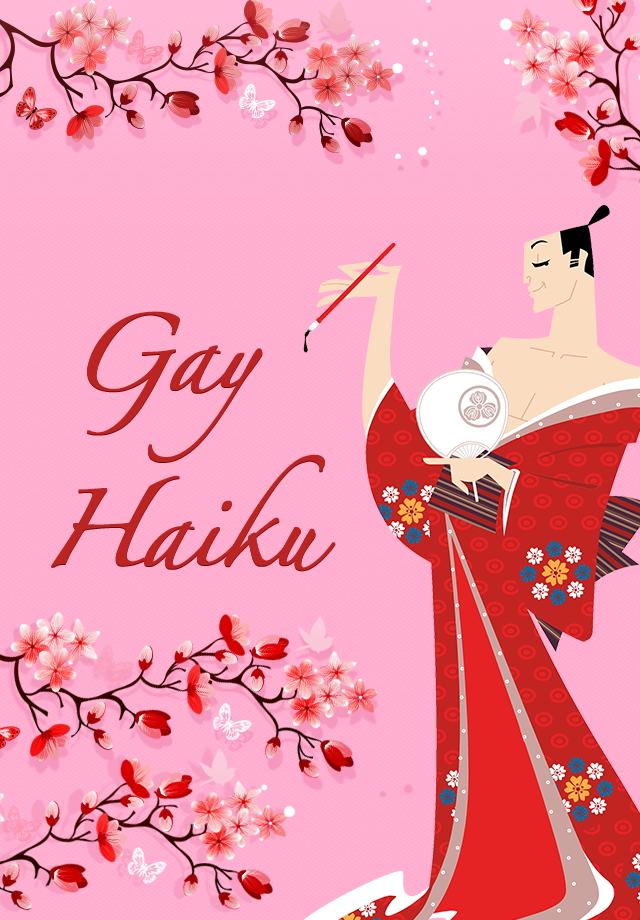
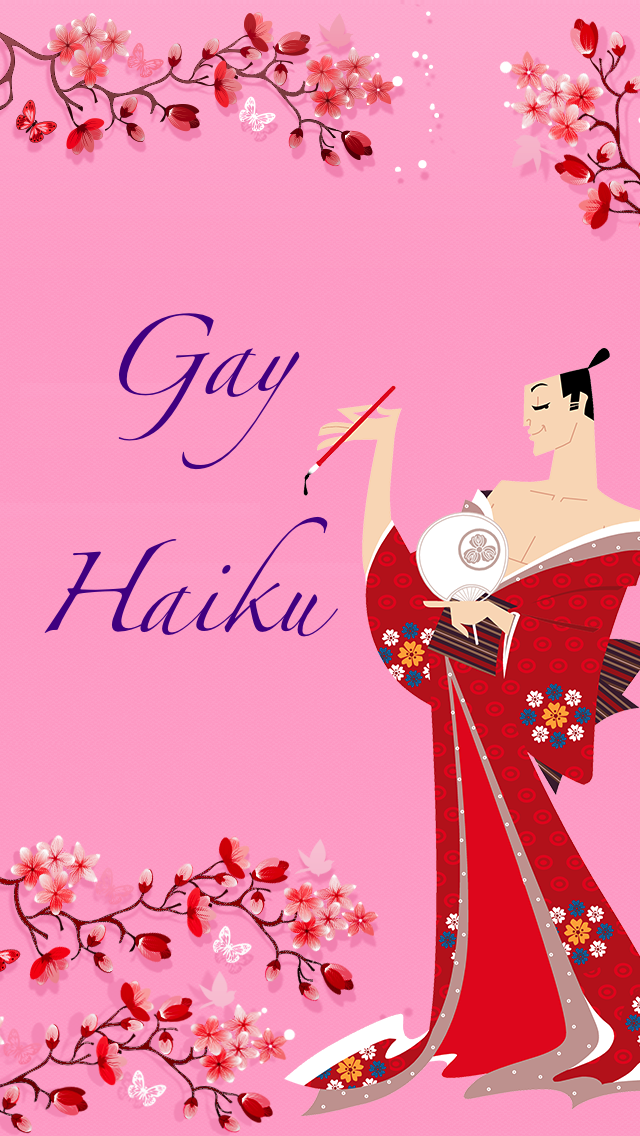
Got rid of iPad stuff for now.  Added most of final graphics.  Ready for beta testing!

diff --git a/GayHaikuTabbed/GHHaikuViewController.m b/GayHaikuTabbed/GHHaikuViewController.m
@@ -34,6 +34,7 @@
     [super viewDidLoad];
     self.view.backgroundColor = [UIColor whiteColor];
     background.backgroundColor = [UIColor whiteColor];
+    self.view.autoresizesSubviews=YES;
     [self.view addSubview:background];
     NSLog(@"View loaded.");
    [self setWidthAndHeight];
@@ -45,10 +46,10 @@
     background = [[UIImageView alloc] initWithFrame:frame];
     if ([[UIDevice currentDevice] userInterfaceIdiom] == UIUserInterfaceIdiomPhone) {
         if (screenHeight<500) {
-            background.image=[UIImage imageNamed:@"temp background.jpg"];
+            background.image=[UIImage imageNamed:@"main.png"];
         }
         else {
-            background.image=[UIImage imageNamed:@"iPhone5 temp background.jpg"];
+            background.image=[UIImage imageNamed:@"5main.png"];
         }
     }
     else {
@@ -104,15 +105,6 @@
     
 }
 
--(BOOL)shouldAutorotate {
-    if ([[UIDevice currentDevice] userInterfaceIdiom] == UIUserInterfaceIdiomPad) {
-        return YES;
-    }
-    else {
-        return NO;
-    }
-}
-
 -(UITextView *)createSwipeToAdd: (NSString *)word {
     
                 //Create "Swipe" text and its characteristics
@@ -158,7 +150,6 @@
     
                 //Create UINavigationBar. The reason this isn't lazily instantiated is to remove the glitch whereby, if the user has tapped a user haiku and shown the trash/edit buttons in the nav bar, the next non-user haiku tapped shows those buttons momentarily before they disappear.
     
-    //navBar = [[UINavigationBar alloc] init];
     navBar = [[UINavigationBar alloc] initWithFrame:CGRectMake(0, 0, self.view.bounds.size.width, toolbarHeight)];
     [navBar setTintColor:[UIColor colorWithRed:123/255.0 green:47/255.0 blue:85/255.0 alpha:.75]];
     
@@ -175,8 +166,8 @@
     
                 //Add navigation bar to screen.
     
-    [navBar pushNavigationItem:titleBar animated:YES];
-    [self.view addSubview:navBar];
+        [navBar pushNavigationItem:titleBar animated:YES];
+        [self.view addSubview:navBar];
     
                 //Fade navigation bar: first delay, so that buttons are pressable, then fade.
     
@@ -188,20 +179,6 @@
                              navBar.alpha = 0;
                          }];
     });
-    
-    /*To add maybe with iPad version?
-     
-     navBar.translatesAutoresizingMaskIntoConstraints=NO;
-     
-     NSLayoutConstraint *widthCon = [NSLayoutConstraint constraintWithItem:navBar attribute:NSLayoutAttributeWidth relatedBy:NSLayoutRelationEqual toItem:self.view attribute:NSLayoutAttributeWidth multiplier:2  constant:0];
-     NSLayoutConstraint *heightCon = [NSLayoutConstraint constraintWithItem:navBar attribute:NSLayoutAttributeHeight relatedBy:0 toItem:nil attribute:NSLayoutAttributeHeight multiplier:1  constant:tabBarHeight];
-     NSLayoutConstraint *constraintX = [NSLayoutConstraint constraintWithItem:navBar attribute:NSLayoutAttributeTop relatedBy:NSLayoutRelationEqual toItem:self.view attribute:NSLayoutAttributeTop multiplier:1 constant:0];
-     [self.view addConstraint:constraintX];
-     [self.view addConstraint:widthCon];
-     [self.view addConstraint:heightCon];
-     
-     */
-    
 }
 
 -(void)addShareButton {
@@ -240,8 +217,15 @@
     
     self.ghhaiku=[GHHaiku sharedInstance];
     [self.ghhaiku haikuToShow];
+    int fontSize;
+    if ([[UIDevice currentDevice] userInterfaceIdiom] == UIUserInterfaceIdiomPad) {
+        fontSize = 24;
+    }
+    else {
+        fontSize = 14;
+    }
     
-                //Set CGSize so that haiku can be laid out in the center.
+                    //Set CGSize so that haiku can be laid out in the center.
     
     CGSize dimensions = CGSizeMake(screenWidth, screenHeight);
     CGSize xySize = [self.ghhaiku.text sizeWithFont:[UIFont fontWithName:@"Helvetica Neue" size:largeFontSize] constrainedToSize:dimensions lineBreakMode:0];
@@ -253,7 +237,7 @@
     displayHaikuTextView = [[UITextView alloc] init];
     displayHaikuTextView.backgroundColor = [UIColor clearColor];
     displayHaikuTextView.editable=NO;
-    displayHaikuTextView.font=[UIFont fontWithName:@"Helvetica Neue" size:largeFontSize];
+    displayHaikuTextView.font=[UIFont fontWithName:@"Helvetica Neue" size:fontSize];
     displayHaikuTextView.text=self.ghhaiku.text;
     [displayHaikuTextView setFrame:CGRectMake((screenWidth/2)-(xySize.width/2),screenHeight/2-xySize.height,textWidth,textHeight)];
  
@@ -309,19 +293,11 @@
     else {
         fontSize = 17;
     }
-    CGSize xySize = [rightSwipe.text sizeWithFont:[UIFont fontWithName:@"Zapfino" size:fontSize+16]];
+    CGSize xySize = [rightSwipe.text sizeWithFont:[UIFont fontWithName:@"Zapfino" size:fontSize]];
     
-                //We need xySize.width*1.5 and xySize.height*2 because using just xySize.width and xySize.height cuts off the text. Not sure why.
-    /*rightSwipe.translatesAutoresizingMaskIntoConstraints=NO;
-    NSLayoutConstraint *widthCon = [NSLayoutConstraint constraintWithItem:rightSwipe attribute:NSLayoutAttributeWidth relatedBy:0 toItem:nil attribute:NSLayoutAttributeWidth multiplier:1  constant:xySize.width];
-    NSLayoutConstraint *heightCon = [NSLayoutConstraint constraintWithItem:rightSwipe attribute:NSLayoutAttributeHeight relatedBy:0 toItem:nil attribute:NSLayoutAttributeHeight multiplier:1  constant:xySize.height];
-    NSLayoutConstraint *constraintX = [NSLayoutConstraint constraintWithItem:rightSwipe attribute:NSLayoutAttributeRight relatedBy:NSLayoutRelationEqual toItem:self.view attribute:NSLayoutAttributeRight multiplier:.75 constant:0];
-    NSLayoutConstraint *constraintY = [NSLayoutConstraint constraintWithItem:rightSwipe attribute:NSLayoutAttributeBottom relatedBy:NSLayoutRelationEqual toItem:self.view attribute:NSLayoutAttributeBottom multiplier:.75 constant:0];
-    [self.view addConstraint:constraintX];
-    [self.view addConstraint:constraintY];
-    [self.view addConstraint:widthCon];
-    [self.view addConstraint:heightCon];*/
-    CGRect rect = CGRectMake((screenWidth - xySize.width-30), screenHeight-200, xySize.width*1.5, xySize.height*2);
+                //We need xySize.width*1.5 and xySize.height*2 because using just xySize.width and xySize.height cuts off the text--UITextView has padding built in.
+
+    CGRect rect = CGRectMake((screenWidth - xySize.width-30), screenHeight-240, xySize.width*1.5, xySize.height*2);
     rightSwipe.frame = rect;
     
                 //Display it.
@@ -336,9 +312,9 @@
     leftSwipe = [self createSwipeToAdd:@"Swipe"];
     CGSize xySize = [leftSwipe.text sizeWithFont:[UIFont fontWithName:@"Zapfino" size:17]];
     
-                //We need xySize.width*1.5 and xySize.height*2 because using just xySize.width and xySize.height cuts off the text. Not sure why.
+                //We need xySize.width*1.5 and xySize.height*2 because using just xySize.width and xySize.height cuts off the text--UITextView has padding built in.
     
-    CGRect rect = CGRectMake(10, screenHeight-200, xySize.width*1.5, xySize.height*2);
+    CGRect rect = CGRectMake(10, screenHeight-240, xySize.width*1.5, xySize.height*2);
     leftSwipe.frame = rect;
     
                 //Display it

diff --git a/GayHaikuTabbed/GHComposeViewController.m b/GayHaikuTabbed/GHComposeViewController.m
@@ -8,8 +8,6 @@
 
 #import "GHComposeViewController.h" 
 
-//files needed:  short background, tall background, short compose screen no flowers, tall compose screen no flowers, short compose screen with flowers, tall compose screen with flowers.
-
 @interface GHComposeViewController () <UITextViewDelegate,UIAlertViewDelegate,UITextFieldDelegate,UIActionSheetDelegate>
 
 @end
@@ -48,42 +46,7 @@
     screenWidth = self.view.bounds.size.width;
     frame = CGRectMake(0, 0, screenWidth, (screenHeight-tabBarHeight));
     background = [[UIImageView alloc] initWithFrame:frame];
-    if ([[UIDevice currentDevice] userInterfaceIdiom] == UIUserInterfaceIdiomPhone) {
-        if (screenHeight<500) {
-            background.image=[UIImage imageNamed:@"temp background.jpg"];
-        }
-        else {
-            background.image=[UIImage imageNamed:@"iPhone5 temp background.jpg"];
-        }
-    }
-    else {
-        if (self.interfaceOrientation==UIInterfaceOrientationPortrait || self.interfaceOrientation==UIInterfaceOrientationPortraitUpsideDown) {
-            background.image=[UIImage imageNamed:@"image-landscape.png"];
-        }
-        else {
-            background.image=[UIImage imageNamed:@"image-portrait.png"];
-        }
-    }
     [self.view addSubview:background];
-}
-
-//NEED TO SET WHETHER USER IS ON COMPOSE OR INSTRUCTIONS SCREEN HERE:
-
-/*-(void)didRotateFromInterfaceOrientation:(UIInterfaceOrientation)fromInterfaceOrientation {
-    if((self.interfaceOrientation == UIDeviceOrientationLandscapeLeft) || (self.interfaceOrientation == UIDeviceOrientationLandscapeRight)){
-        background.image = [UIImage imageNamed:@"image-landscape.png"];
-    } else  if((self.interfaceOrientation == UIDeviceOrientationPortrait) || (self.interfaceOrientation == UIDeviceOrientationPortraitUpsideDown)){
-        background.image = [UIImage imageNamed:@"image-portrait.png"];
-    }
-}*/
-
--(BOOL)shouldAutorotate {
-    if ([[UIDevice currentDevice] userInterfaceIdiom] == UIUserInterfaceIdiomPad) {
-        return YES;
-    }
-    else {
-        return NO;
-    }
 }
 
 -(void)viewDidAppear:(BOOL)animated {
@@ -198,10 +161,10 @@
     background = [[UIImageView alloc] initWithFrame:frame];
     if ([[UIDevice currentDevice] userInterfaceIdiom] == UIUserInterfaceIdiomPhone) {
         if (screenHeight<500) {
-            background.image=[UIImage imageNamed:@"compose screen temp.png"];
+            background.image=[UIImage imageNamed:@"compose.png"];
         }
         else {
-            background.image=[UIImage imageNamed:@"compose screen temp.png"];
+            background.image=[UIImage imageNamed:@"compose.png"];
         }
     }
     else {
@@ -299,10 +262,10 @@
     background = [[UIImageView alloc] initWithFrame:frame];
     if ([[UIDevice currentDevice] userInterfaceIdiom] == UIUserInterfaceIdiomPhone) {
         if (screenHeight<500) {
-            background.image=[UIImage imageNamed:@"temp background.jpg"];
+            background.image=[UIImage imageNamed:@"instructions.png"];
         }
         else {
-            background.image=[UIImage imageNamed:@"iPhone5 temp background.png"];
+            background.image=[UIImage imageNamed:@"5instructions.png"];
         }
     }
     else {
@@ -426,12 +389,12 @@
     
                 //Show appropriate screen.
     
-        if (screenHeight<500) {
-            background.image=[UIImage imageNamed:@"short compose screen with flowers.png"];
+        /*if (screenHeight<500) {
+            background.image=[UIImage imageNamed:@"compose.png"];
         }
         else {
-            background.image=[UIImage imageNamed:@"tall compose screen with flowers.png"];
-        }
+            background.image=[UIImage imageNamed:@"5compose.png"];
+        }*/
         [actSheet showFromTabBar:self.tabBarController.tabBar];
     }
 }
@@ -540,12 +503,12 @@
         NSString *add = @"Are you certain you'd like to continue saving?";
         alertMessage = [alertMessage stringByAppendingFormat:@" %@",add];
         alert = [[UIAlertView alloc] initWithTitle:@"Are you sure?" message:alertMessage delegate:self cancelButtonTitle:@"Edit" otherButtonTitles:@"Save", nil];
-        if (screenHeight<500) {
-            background.image=[UIImage imageNamed:@"short compose screen with flowers.png"];
+        /*if (screenHeight<500) {
+            background.image=[UIImage imageNamed:@"compose.png"];
         }
         else {
-            background.image=[UIImage imageNamed:@"tall compose screen with flowers.png"];
-        }
+            background.image=[UIImage imageNamed:@"5compose.png"];
+        }*/
         [alert show];
     }
     

diff --git a/GayHaikuTabbed/GHSettingsViewController.m b/GayHaikuTabbed/GHSettingsViewController.m
@@ -53,10 +53,10 @@
     background = [[UIImageView alloc] initWithFrame:frame];
     if ([[UIDevice currentDevice] userInterfaceIdiom] == UIUserInterfaceIdiomPhone) {
         if (screenHeight<500) {
-            background.image=[UIImage imageNamed:@"temp background.jpg"];
+            background.image=[UIImage imageNamed:@"instructions.png"];
         }
         else {
-            background.image=[UIImage imageNamed:@"iPhone5 temp background.jpg"];
+            background.image=[UIImage imageNamed:@"5instructions.png"];
         }
     }
     else {
@@ -70,23 +70,6 @@
     [self.view addSubview:background];
     [self displaySettingsScreen];
 }
-
--(BOOL)shouldAutorotate {
-    if ([[UIDevice currentDevice] userInterfaceIdiom] == UIUserInterfaceIdiomPad) {
-        return YES;
-    }
-    else {
-        return NO;
-    }
-}
-
-/*-(void)didRotateFromInterfaceOrientation:(UIInterfaceOrientation)fromInterfaceOrientation {
-    if((self.interfaceOrientation == UIDeviceOrientationLandscapeLeft) || (self.interfaceOrientation == UIDeviceOrientationLandscapeRight)){
-        background.image = [UIImage imageNamed:@"image-landscape.png"];
-    } else  if((self.interfaceOrientation == UIDeviceOrientationPortrait) || (self.interfaceOrientation == UIDeviceOrientationPortraitUpsideDown)){
-        background.image = [UIImage imageNamed:@"image-portrait.png"];
-    }
-}*/
 
 -(void)switchToInstructions {
     if (userSettings.instructionsSwipedToFromOptOut==NO) {

diff --git a/GayHaikuTabbed/GHFeedback.m b/GayHaikuTabbed/GHFeedback.m
@@ -39,10 +39,10 @@
     background.backgroundColor = [UIColor whiteColor];
     if ([[UIDevice currentDevice] userInterfaceIdiom] == UIUserInterfaceIdiomPhone) {
         if (screenHeight<500) {
-            background.image=[UIImage imageNamed:@"temp background.jpg"];
+            background.image=[UIImage imageNamed:@"main.png"];
         }
         else {
-            background.image=[UIImage imageNamed:@"iPhone5 temp background.jpg"];
+            background.image=[UIImage imageNamed:@"5main.png"];
         }
     }
     else {

diff --git a/GayHaikuTabbed/GHWebViewController.m b/GayHaikuTabbed/GHWebViewController.m
@@ -48,15 +48,6 @@
     [self connectWithURL:urlString andBaseURLString:baseURLString];
 }
 
--(BOOL)shouldAutorotate {
-    if ([[UIDevice currentDevice] userInterfaceIdiom] == UIUserInterfaceIdiomPad) {
-        return YES;
-    }
-    else {
-        return NO;
-    }
-}
-
 - (void)webViewDidStartLoad:(UIWebView *)webView{
     
                 //Adds activity indicator to screen and starts animating it

diff --git a/GayHaikuTabbed/GHHaikuViewController.h b/GayHaikuTabbed/GHHaikuViewController.h
@@ -28,6 +28,7 @@
     NSLayoutConstraint *toolbarConstraintTop;
     NSLayoutConstraint *toolbarConstraintWidth;
     NSLayoutConstraint *toolbarConstraintHeight;
+    IBOutlet UINavigationBar *navBarForPad;
 }
 
 @property (nonatomic, strong) GHHaiku *ghhaiku;
